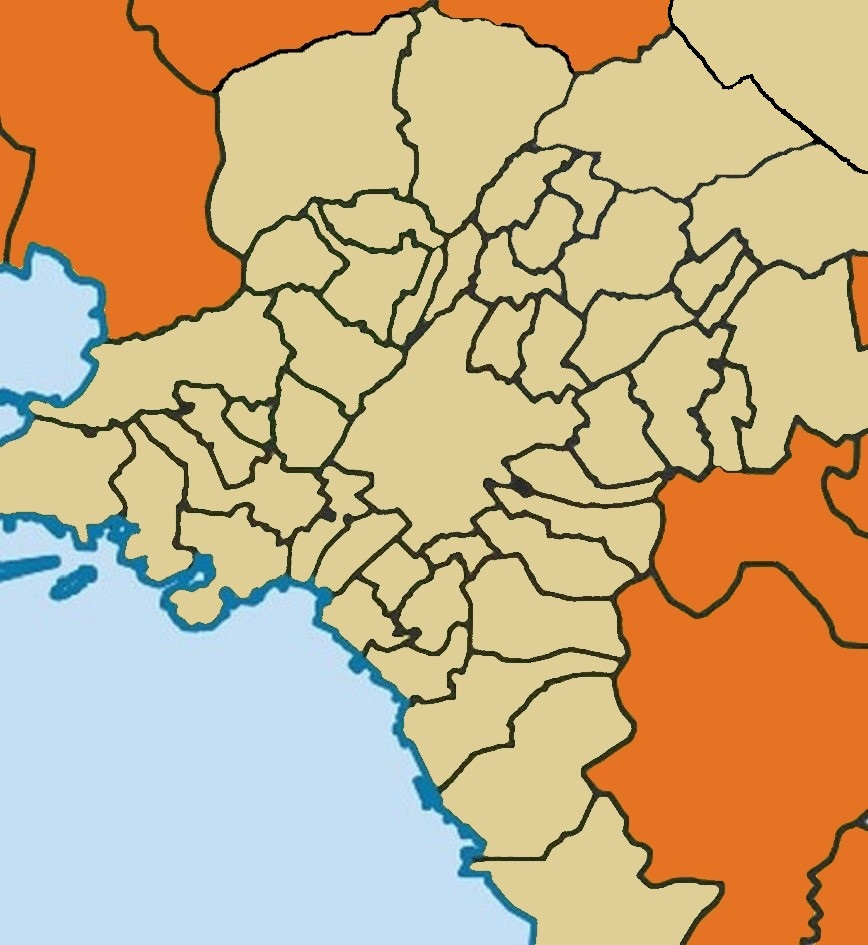
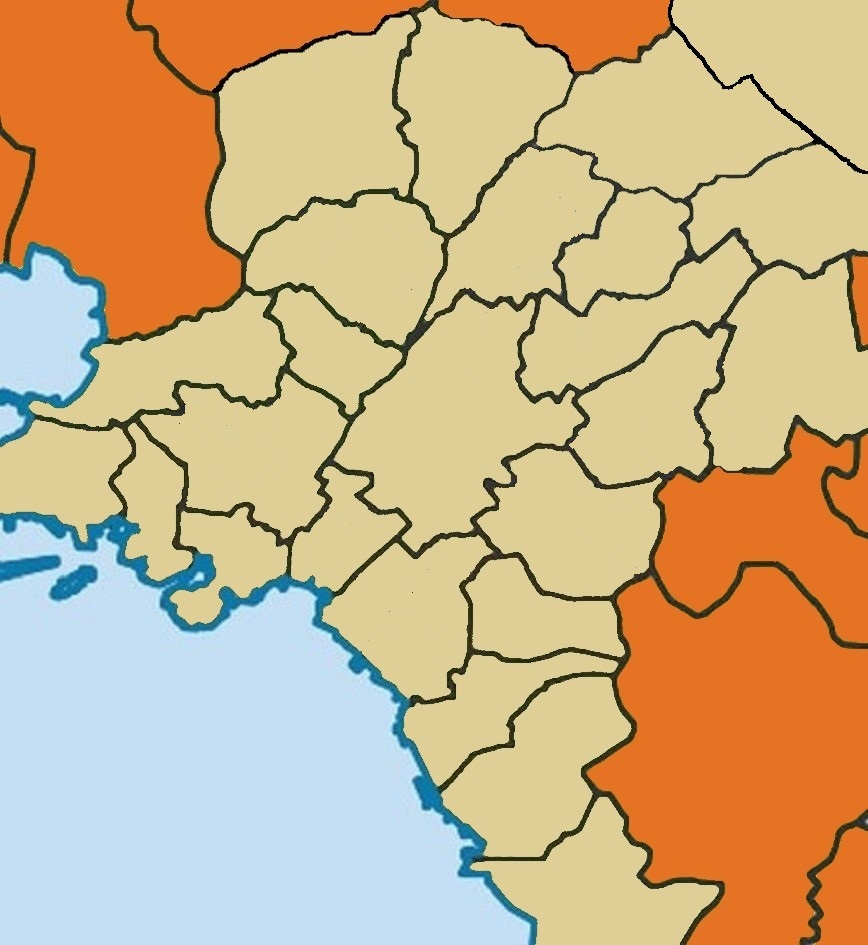
map done

diff --git a/src/GUI/RoutPlanningFrame.java b/src/GUI/RoutPlanningFrame.java
@@ -176,75 +176,315 @@ public class RoutPlanningFrame extends javax.swing.JFrame implements PropertyCha
 
         int[] x;
         int[] y;
+
+        //--ΒΑΡΗ-ΒΟΥΛΑ-ΒΟΥΛΙΑΓΜΕΝΗ
+        x = new int[]{534, 536, 536, 515, 491, 491, 489, 473, 469, 471, 474, 477, 484, 542, 549, 558, 563, 574, 579, 596, 608, 624, 626, 624, 634, 645, 650, 648, 639, 650, 660, 671, 694, 701, 719, 721, 709, 701, 683};
+        y = new int[]{945, 921, 919, 908, 881, 875, 872, 871, 869, 865, 862, 859, 857, 857, 846, 839, 834, 832, 829, 794, 794, 815, 822, 830, 843, 846, 855, 862, 875, 885, 885, 880, 879, 882, 882, 892, 906, 914, 945};
+
+        polys.add(new Polygon(x, y, x.length));
+
+        ArrayList<String> lot_0 = new ArrayList<>();
+        lot_0.add("ΒΑΡΗ");
+        lot_0.add("ΒΟΥΛΑ");
+        lot_0.add("ΒΟΥΛΙΑΓΜΕΝΗ");
+        lots.put(0, lot_0);
+
+        //--ΓΛΥΦΑΔΑ
+        x = new int[]{484, 482, 487, 468, 463, 443, 441, 437, 473, 498, 510, 511, 509, 513, 520, 531, 540, 543, 547, 554, 568, 588, 613, 615, 619, 626, 633, 632, 626, 585, 583, 596, 579, 574, 563, 558, 549, 542};
+        y = new int[]{857, 854, 843, 824, 824, 806, 798, 791, 753, 745, 744, 727, 722, 715, 710, 697, 689, 687, 682, 680, 675, 673, 674, 690, 705, 714, 724, 732, 740, 767, 774, 794, 829, 832, 834, 839, 846, 857};
+
+        polys.add(new Polygon(x, y, x.length));
+
+        ArrayList<String> lot_1 = new ArrayList<>();
+        lot_1.add("ΓΛΥΦΑΔΑ");
+
+        lots.put(1, lot_1);
+
+        //--ΕΛΛΗΝΙΚΟ, ΑΡΓΥΡΟΥΠΟΛΗ
+        x = new int[]{437, 418, 416, 410, 407, 402, 403, 403, 407, 412, 417, 422, 452, 452, 448, 448, 452, 459, 462, 470, 483, 495, 501, 521, 527, 543, 555, 565, 572, 587, 621, 613, 588, 568, 554, 547, 543, 540, 531, 520, 513, 509, 511, 510, 498, 473, 437};
+        y = new int[]{791, 751, 746, 739, 738, 729, 728, 718, 708, 700, 698, 701, 696, 686, 678, 674, 671, 670, 670, 651, 653, 653, 658, 659, 659, 656, 652, 649, 649, 651, 659, 674, 673, 675, 680, 682, 687, 689, 697, 710, 715, 722, 727, 744, 745, 753, 791};
+
+        polys.add(new Polygon(x, y, x.length));
+
+        ArrayList<String> lot_2 = new ArrayList<>();
+        lot_2.add("ΑΡΓΥΡΟΥΠΟΛΗ");
+        lot_2.add("ΕΛΛΗΝΙΚΟ");
+
+        lots.put(2, lot_2);
+
+        //--ΗΛΙΟΥΠΟΛΗ
+        x = new int[]{470, 470, 462, 463, 471, 483, 497, 517, 524, 526, 539, 547, 564, 574, 612, 618, 618, 624, 627, 621, 587, 572, 565, 555, 543, 527, 521, 501, 495, 483, 470};
+        y = new int[]{651, 604, 586, 582, 576, 560, 555, 554, 563, 568, 590, 592, 596, 598, 598, 613, 631, 641, 653, 659, 651, 649, 649, 652, 656, 659, 659, 658, 653, 653, 651};
+
+        polys.add(new Polygon(x, y, x.length));
+
+        ArrayList<String> lot_3 = new ArrayList<>();
+        lot_3.add("ΗΛΙΟΥΠΟΛΗ");
+
+        lots.put(3, lot_3);
+
+        //--ΑΓΙΟΣ ΔΗΜΗΤΡΙΟΣ, ΑΛΙΜΟΣ, ΔΑΦΝΗ, ΝΕΑ ΣΜΥΡΝΗ, ΠΑΛΑΙΟ ΦΑΛΗΡΟ
+        x = new int[]{412, 407, 398, 395, 383, 380, 373, 338, 337, 324, 321, 322, 322, 326, 329, 334, 339, 354, 396, 414, 423, 427, 435, 440, 447, 454, 463, 472, 477, 487, 490, 497, 483, 471, 463, 462, 470, 470, 462, 459, 452, 448, 448, 452, 452, 422, 417, 412};
+        y = new int[]{700, 700, 691, 685, 679, 673, 666, 634, 629, 622, 622, 617, 610, 606, 605, 594, 592, 575, 538, 555, 546, 544, 538, 536, 536, 534, 535, 533, 530, 538, 545, 555, 560, 576, 582, 586, 604, 651, 670, 670, 671, 674, 678, 686, 696, 701, 698, 700};
+
+        polys.add(new Polygon(x, y, x.length));
+
+        ArrayList<String> lot_4 = new ArrayList<>();
+        lot_4.add("ΑΓΙΟΣ ΔΗΜΗΤΡΙΟΣ");
+        lot_4.add("ΑΛΙΜΟΣ");
+        lot_4.add("ΔΑΦΝΗ");
+        lot_4.add("ΝΕΑ ΣΜΥΡΝΗ");
+        lot_4.add("ΠΑΛΑΙΟ ΦΑΛΗΡΟ");
+        lots.put(4, lot_4);
+
+        //--ΜΟΣΧΑΤΟ, ΚΑΛΛΙΘΕΑ, ΤΑΥΡΟΣ
+        x = new int[]{334, 339, 354, 396, 408, 397, 378, 358, 370, 370, 346, 328, 316, 323, 320, 328, 319, 306, 298, 289, 288, 287, 287, 292, 303, 312, 313, 314, 318, 323};
+        y = new int[]{594, 592, 575, 538, 524, 511, 511, 495, 484, 475, 472, 461, 474, 482, 490, 499, 513, 527, 528, 541, 557, 572, 572, 578, 582, 576, 578, 583, 588, 586};
+
+        polys.add(new Polygon(x, y, x.length));
+
+        ArrayList<String> lot_5 = new ArrayList<>();
+
+        lot_5.add("ΜΟΣΧΑΤΟ");
+        lot_5.add("ΚΑΛΛΙΘΕΑ");
+        lot_5.add("ΤΑΥΡΟΣ");
+
+        lots.put(5, lot_5);
+
+        //--ΠΕΙΑΡΑΙΑΣ
+        x = new int[]{183, 177, 177, 177, 175, 184, 193, 200, 210, 212, 212, 215, 215, 209, 205, 199, 193, 187, 179, 169, 169, 175, 176, 183, 190, 197, 205, 210, 219, 222, 223, 218, 220, 223, 227, 239, 246, 252, 257, 269, 275, 281, 287, 288, 289, 279, 276, 266, 258, 252, 249, 251, 250, 244, 238, 230, 223, 212, 205, 189, 183};
+        y = new int[]{504, 514, 527, 532, 543, 548, 549, 554, 554, 557, 563, 569, 576, 584, 587, 587, 591, 591, 590, 596, 600, 604, 613, 618, 625, 622, 623, 622, 613, 606, 603, 596, 589, 586, 586, 598, 598, 590, 588, 580, 580, 576, 572, 557, 541, 541, 532, 527, 523, 523, 517, 508, 505, 503, 504, 513, 513, 512, 511, 510, 504};
+
+        polys.add(new Polygon(x, y, x.length));
+
+        ArrayList<String> lot_6 = new ArrayList<>();
+        lot_6.add("ΠΕΙΑΡΑΙΑΣ");
+
+        lots.put(6, lot_6);
+
+        //--ΑΓΙΟΣ ΙΩΑΝΝΗΣ ΡΕΝΤΗΣ, NIKAIA, ΚΟΡΥΔΑΛΛΟΣ, ΑΓΙΑ ΒΑΡΒΑΡΑ
+        x = new int[]{328, 316, 323, 320, 328, 319, 306, 298, 289, 279, 276, 266, 258, 252, 249, 251, 250, 244, 238, 230, 223, 212, 205, 189, 183, 183, 185, 184, 173, 168, 163, 155, 149, 145, 135, 141, 155, 165, 177, 181, 175, 177, 183, 189, 197, 207, 218, 225, 230, 241, 247, 254, 257, 266, 270, 277, 277, 276, 280, 284, 304, 323, 342, 340, 350, 340, 328};
+        y = new int[]{461, 474, 482, 490, 499, 513, 527, 528, 541, 541, 532, 527, 523, 523, 517, 508, 505, 503, 504, 513, 513, 512, 511, 510, 504, 489, 484, 465, 458, 452, 447, 441, 437, 429, 416, 410, 412, 410, 412, 408, 393, 384, 382, 384, 384, 385, 385, 394, 399, 398, 403, 406, 401, 402, 399, 395, 386, 384, 371, 368, 384, 392, 405, 409, 418, 439, 461};
+
+        polys.add(new Polygon(x, y, x.length));
+
+        ArrayList<String> lot_7 = new ArrayList<>();
+        lot_7.add("ΑΓΙΑ ΒΑΡΒΑΡΑ");
+        lot_7.add("ΑΓΙΟΣ ΙΩΑΝΝΗΣ ΡΕΝΤΗΣ");
+        lot_7.add("ΚΟΡΥΔΑΛΛΟΣ");
+        lot_7.add("NIKAIA");
+        lots.put(7, lot_7);
+
+        //--ΚΕΡΑΤΣΙΝΙ, ΔΡΑΠΕΤΣΟΝΑ
+        x = new int[]{121, 135, 145, 149, 155, 163, 168, 173, 184, 185, 183, 183, 177, 177, 177, 175, 184, 193, 192, 192, 188, 162, 157, 151, 144, 147, 146, 146, 143, 132, 127, 124, 124, 125, 126, 129, 133, 138, 139, 137, 137, 129, 125, 124, 123, 115, 110, 113, 118, 119, 124, 131, 133, 132, 121};
+        y = new int[]{425, 416, 429, 437, 441, 447, 452, 458, 465, 484, 489, 504, 514, 527, 532, 543, 548, 549, 555, 561, 566, 580, 581, 579, 574, 566, 559, 557, 555, 559, 559, 556, 551, 546, 542, 536, 533, 533, 529, 528, 524, 523, 517, 507, 502, 489, 480, 475, 471, 467, 462, 455, 450, 442, 425};
+
+        polys.add(new Polygon(x, y, x.length));
+
+        ArrayList<String> lot_8 = new ArrayList<>();
+        lot_8.add("ΔΡΑΠΕΤΣΟΝΑ");
+        lot_8.add("ΚΕΡΑΤΣΙΝΙ");
+
+        lots.put(8, lot_8);
+
         //--ΠΕΡΑΜΑ
         x = new int[]{0, 4, 10, 16, 21, 26, 31, 34, 42, 54, 61, 67, 72, 79, 85, 90, 97, 106, 111, 121, 132, 133, 131, 124, 119, 118, 113, 110, 115, 123, 124, 119, 114, 109, 99, 87, 86, 87, 86, 80, 77, 74, 68, 63, 55, 42, 36, 17, 14, 12, 10, 4, 0};
         y = new int[]{447, 443, 440, 439, 436, 432, 424, 418, 418, 419, 423, 423, 425, 425, 429, 431, 427, 428, 421, 425, 442, 450, 455, 462, 467, 471, 475, 480, 489, 502, 507, 514, 515, 515, 523, 524, 528, 536, 542, 542, 532, 527, 524, 524, 516, 516, 512, 512, 513, 512, 513, 513, 513};
 
         polys.add(new Polygon(x, y, x.length));
 
-        ArrayList<String> lot_0 = new ArrayList<>();
-        lot_0.add("bubs");
-        lot_0.add("baba");
-        lot_0.add("bobo");
+        ArrayList<String> lot_9 = new ArrayList<>();
+        lot_9.add("ΠΕΡΑΜΑ");
 
-        lots.put(0, lot_0);
+        lots.put(9, lot_9);
 
-        //--ΚΕΡΑΤΣΙΝΙ
-        x = new int[]{121, 135, 145, 149, 155, 163, 168, 173, 184, 185, 183, 183, 177, 177, 177, 175, 184, 193, 192, 192, 188, 162, 157, 151, 144, 147, 146, 146, 143, 132, 127, 124, 124, 125, 126, 129, 133, 138, 139, 137, 137, 129, 125, 124, 123, 115, 110, 113, 118, 119, 124, 131, 133, 132, 121};
-        y = new int[]{425, 416, 429, 437, 441, 447, 452, 458, 465, 484, 489, 504, 514, 527, 532, 543, 548, 549, 555, 561, 566, 580, 581, 579, 574, 566, 559, 557, 555, 559, 559, 556, 551, 546, 542, 536, 533, 533, 529, 528, 524, 523, 517, 507, 502, 489, 480, 475, 471, 467, 462, 455, 450, 442, 425};
+        //--ΧΑΙΔΑΡΙ
+        x = new int[]{34, 42, 54, 61, 67, 72, 79, 85, 90, 97, 106, 111, 121, 135, 141, 155, 165, 177, 181, 175, 177, 183, 189, 197, 207, 218, 225, 230, 241, 247, 254, 257, 266, 270, 277, 277, 276, 280, 284, 287, 292, 282, 279, 265, 274, 265, 254, 243, 224, 211, 202, 197, 183, 175, 162, 143, 135, 129, 120, 118, 105, 92, 89, 98, 97, 95, 88, 80, 67, 59, 54, 47, 37, 32, 27};
+        y = new int[]{418, 418, 419, 423, 423, 425, 425, 429, 431, 427, 428, 421, 425, 416, 410, 412, 410, 412, 408, 393, 384, 382, 384, 384, 385, 385, 394, 399, 398, 403, 406, 401, 402, 399, 395, 386, 384, 371, 368, 360, 352, 341, 324, 314, 291, 291, 292, 286, 306, 308, 308, 317, 316, 323, 328, 336, 334, 337, 338, 341, 339, 348, 352, 362, 369, 373, 386, 396, 406, 408, 408, 403, 401, 401, 405};
 
         polys.add(new Polygon(x, y, x.length));
 
-        ArrayList<String> lot_1 = new ArrayList<>();
-        lot_1.add("bubs");
-        lot_1.add("baba");
-        lot_1.add("bobo");
+        ArrayList<String> lot_10 = new ArrayList<>();
+        lot_10.add("ΧΑΙΔΑΡΙ");
 
-        lots.put(1, lot_1);
+        lots.put(10, lot_10);
 
-        //--ΠΕΙΑΡΑΙΑΣ
-        x = new int[]{ 183, 177, 177, 177, 175, 184, 193,200,210,212,212,215,215,209,205,199,193,187,179,169,169,175,176,183,190,197,205,210,219,222,223,218,220,223,227,239,246,252,257,269,275,281,287,288,289,279,276,266,258,252,249,251,250,244,238,230,223,212,205,189,183};
-        y = new int[]{ 504, 514, 527, 532, 543, 548, 549,549,554,554,557,563,569,576,584,587,587,591,591,590,596,600,604,613,618,625,622,623,622,613,606,603,596,589,586,586,598,598,590,588,580,580,576,572,557,541,541,532,527,523,523,517,508,505,503,504,513,513,512,511,510,504};
+        //--ΠΕΡΙΣΤΕΡΙ
+        x = new int[]{350, 340, 342, 323, 304, 284, 287, 292, 282, 279, 265, 274, 288, 296, 301, 306, 310, 316, 337, 343, 348, 355, 361, 369, 376, 385, 404, 403, 388, 375, 362, 361, 350};
+        y = new int[]{418, 409, 405, 392, 384, 368, 360, 352, 341, 324, 314, 291, 284, 289, 285, 288, 287, 294, 317, 320, 322, 323, 327, 331, 340, 343, 348, 360, 376, 387, 394, 408, 418};
 
         polys.add(new Polygon(x, y, x.length));
 
-        ArrayList<String> lot_2 = new ArrayList<>();
-        lot_2.add("bubs");
-        lot_2.add("baba");
-        lot_2.add("bobo");
+        ArrayList<String> lot_11 = new ArrayList<>();
+        lot_11.add("ΠΕΡΙΣΤΕΡΙ");
 
-        lots.put(2, lot_2);
+        lots.put(11, lot_11);
 
+        //--ΑΓΙΟΙ ΑΝΑΡΓΙΡΟΙ, ΠΕΤΡΟΥΠΟΛΗ, ΙΛΙΟΝ, ΚΑΜΑΤΕΡΟ
+        x = new int[]{274, 265, 254, 243, 274, 288, 296, 301, 306, 310, 316, 337, 343, 348, 355, 361, 369, 376, 385, 404, 429, 431, 434, 443, 445, 442, 446, 432, 431, 425, 408, 396, 393, 362, 355, 351, 343, 338, 324, 313, 304, 296, 286, 275, 261, 244, 243};
+        y = new int[]{291, 291, 292, 286, 291, 284, 289, 285, 288, 287, 294, 317, 320, 322, 323, 327, 331, 340, 343, 348, 301, 297, 284, 269, 254, 246, 237, 228, 220, 207, 197, 197, 190, 190, 194, 202, 202, 200, 200, 198, 208, 217, 216, 224, 231, 257, 286};
+
+        polys.add(new Polygon(x, y, x.length));
+
+        ArrayList<String> lot_12 = new ArrayList<>();
+        lot_12.add("ΑΓΙΟΙ ΑΝΑΡΓΙΡΟΙ");
+        lot_12.add("ΠΕΤΡΟΥΠΟΛΗ");
+        lot_12.add("ΙΛΙΟΝ");
+        lot_12.add("ΚΑΜΑΤΕΡΟ");
+        lots.put(12, lot_12);
+
+        //--ΑΝΩ ΛΙΟΣΙΑ, ΖΕΦΥΡΙ, ΦΥΛΗ
+        x = new int[]{408, 396, 393, 362, 355, 351, 343, 338, 324, 313, 304, 296, 286, 275, 261, 244, 216, 209, 207, 222, 224, 218, 216, 223, 233, 242, 278, 300, 320, 337, 337, 347, 350, 369, 373, 385, 398, 412, 417, 416, 410, 408, 401, 394, 394, 398, 405, 406, 398, 403, 403, 414, 415, 411,};
+        y = new int[]{197, 197, 190, 190, 194, 202, 202, 200, 200, 198, 208, 217, 216, 224, 231, 257, 241, 229, 208, 163, 155, 133, 92, 78, 69, 67, 49, 48, 38, 34, 34, 31, 33, 34, 31, 16, 15, 11, 24, 31, 34, 49, 56, 85, 101, 107, 112, 118, 126, 134, 139, 145, 172, 182};
+
+        polys.add(new Polygon(x, y, x.length));
+
+        ArrayList<String> lot_13 = new ArrayList<>();
+
+        lot_13.add("ΑΝΩ ΛΙΟΣΙΑ");
+        lot_13.add("ΖΕΦΥΡΙ");
+        lot_13.add("ΦΥΛΗ");
+        lots.put(13, lot_13);
+
+        //--ΑΧΑΡΝΕΣ, ΘΡΑΚΟΜΑΚΕΔΟΝΕΣ
+        x = new int[]{412, 417, 416, 410, 408, 401, 394, 394, 398, 405, 406, 398, 403, 403, 414, 415, 411, 408, 425, 431, 432, 446, 454, 464, 476, 480, 485, 490, 508, 516, 524, 531, 536, 543, 564, 575, 565, 552, 535, 524, 517, 501, 494, 484, 449, 439, 433, 422};
+        y = new int[]{11, 24, 31, 34, 49, 56, 85, 101, 107, 112, 118, 126, 134, 139, 145, 172, 182, 197, 207, 220, 228, 237, 232, 223, 208, 193, 186, 183, 159, 153, 146, 142, 123, 114, 102, 72, 57, 45, 44, 33, 26, 23, 23, 18, 18, 12, 3, 8};
+
+        polys.add(new Polygon(x, y, x.length));
+
+        ArrayList<String> lot_14 = new ArrayList<>();
+
+        lot_14.add("ΑΧΑΡΝΕΣ");
+        lot_14.add("ΘΡΑΚΟΜΑΚΕΔΟΝΕΣ");
+
+        lots.put(14, lot_14);
+
+        //--ΝΕΑ ΧΑΛΚΗΔΟΝΑ, ΝΕΑ ΦΙΛΑΔΕΛΦΙΑ, ΜΕΤΑΜΟΡΦΩΣΗ, ΗΡΑΚΛΕΙΟ, ΛΥΚΟΒΡΥΣΗ, ΠΕΥΚΗ
+        x = new int[]{404, 429, 431, 434, 443, 445, 442, 446, 454, 464, 476, 480, 485, 490, 508, 516, 524, 531, 542, 552, 558, 579, 590, 594, 590, 597, 609, 617, 611, 600, 594, 583, 575, 564, 561, 554, 562, 563, 545, 536, 530, 518, 509, 500, 489, 475, 466, 453, 449, 435};
+        y = new int[]{348, 301, 297, 284, 269, 254, 246, 237, 232, 223, 208, 193, 186, 183, 159, 153, 146, 142, 148, 147, 144, 151, 152, 158, 171, 177, 180, 187, 201, 215, 234, 234, 239, 244, 253, 262, 275, 299, 289, 296, 295, 306, 299, 298, 304, 298, 290, 300, 308, 315};
+
+        polys.add(new Polygon(x, y, x.length));
+
+        ArrayList<String> lot_15 = new ArrayList<>();
+
+        lot_15.add("ΝΕΑ ΧΑΛΚΗΔΟΝΑ");
+        lot_15.add("ΝΕΑ ΦΙΛΑΔΕΛΦΙΑ");
+        lot_15.add("ΜΕΤΑΜΟΡΦΩΣΗ");
+        lot_15.add("ΗΡΑΚΛΕΙΟ");
+        lot_15.add("ΛΥΚΟΒΡΥΣΗ");
+        lot_15.add("ΠΕΥΚΗ");
+        lots.put(15, lot_15);
+
+        //--ΜΑΡΟΥΣΙ
+        x = new int[]{617, 611, 600, 594, 583, 575, 564, 561, 554, 562, 563, 579, 584, 600, 618, 623, 632, 646, 654, 664, 671, 676, 689, 687, 680, 689, 689, 686, 675, 654, 648, 633};
+        y = new int[]{187, 201, 215, 234, 234, 239, 244, 253, 262, 275, 299, 313, 312, 292, 295, 294, 296, 296, 294, 288, 280, 265, 256, 233, 226, 216, 205, 200, 199, 187, 187, 190};
+
+        polys.add(new Polygon(x, y, x.length));
+
+        ArrayList<String> lot_16 = new ArrayList<>();
+
+        lot_16.add("ΜΑΡΟΥΣΙ");
+        lots.put(16, lot_16);
         //-----
 
-        /*
-        x = new int[]{671, 668, 673, 686, 696, 700, 708, 710, 712, 717, 724, 742, 750, 760, 792, 819, 824, 841, 849, 859, 869};
-          y = new int[]{0, 12, 25, 42, 53, 58, 68, 73, 76, 79, 80, 68, 75, 90, 115, 137, 145, 153, 163, 165, 0};
+        //--ΚΗΦΙΣΙΑ, ΝΕΑ ΕΡΥΘΡΑΙΑ, ΠΟΛΙΤΕΙΑ
+        x = new int[]{575, 564, 543, 536, 531, 542, 552, 558, 579, 590, 594, 590, 597, 609, 617, 633, 648, 654, 675, 686, 695, 700, 710, 716, 746, 763, 791, 817, 776, 753, 751, 741, 729, 723, 701, 685, 673, 667, 657, 649, 640, 637, 623, 614, 591, 575};
+        y = new int[]{72, 102, 114, 123, 142, 148, 147, 144, 151, 152, 158, 171, 177, 180, 187, 190, 187, 187, 199, 200, 192, 184, 184, 176, 175, 160, 148, 138, 107, 82, 75, 77, 86, 86, 57, 40, 27, 34, 35, 45, 48, 60, 59, 57, 70, 72};
+
         polys.add(new Polygon(x, y, x.length));
 
-        ArrayList<String> lot_0 = new ArrayList<>();
-        lot_0.add("ΑΓΙΟΣ ΣΤΕΦΑΝΟΣ");
-        lot_0.add("ΑΝΟΙΞΙΗ");
-        lot_0.add("ΔΙΟΝΥΣΟΣ");
-        lot_0.add("ΔΡΟΣΙΑ");
-        lot_0.add("ΚΡΥΟΝΕΡΙ");
-        lot_0.add("ΡΟΔΟΠΟΛΗ");
-        lot_0.add("ΣΤΑΜΑΤΑ");
-        lots.put(0, lot_0);
-//-----------------
-        x = new int[]{536, 537, 544, 565, 577, 593, 614, 638, 644, 648, 659, 667, 672, 685, 695, 699, 707, 709, 711, 716, 724};
-        y = new int[]{145, 125, 115, 103, 73, 71, 60, 59, 50, 47, 36, 36, 29, 42, 53, 58, 68, 73, 76, 79, 87};
+        ArrayList<String> lot_17 = new ArrayList<>();
 
-        System.out.println(x.length + " " + y.length);
+        lot_17.add("ΚΗΦΙΣΙΑ");
+        lot_17.add("ΝΕΑ ΕΡΥΘΡΑΙΑ");
+        lot_17.add("ΠΟΛΙΤΕΙΑ");
+        lots.put(17, lot_17);
+
+        //-----ΑΓΙΟΣ ΣΤΕΦΑΝΟΣ ΑΝΟΙΞΙΗ ΔΙΟΝΥΣΟΣ ΔΡΟΣΙΑ ΡΟΔΟΠΟΛΗ ΣΤΑΜΑΤΑ
+        x = new int[]{868, 857, 817, 776, 753, 751, 741, 729, 723, 701, 685, 673, 669, 671, 868};
+        y = new int[]{171, 168, 138, 107, 82, 75, 77, 86, 86, 57, 40, 27, 11, 0, 0};
         polys.add(new Polygon(x, y, x.length));
 
-        ArrayList<String> lot_1 = new ArrayList<>();
-        lot_1.add("ΕΚΑΛΗ");
-        lot_1.add("ΠΟΛΙΤΕΙΑ");
-        lot_1.add("ΚΗΦΙΣΙΑ");
+        ArrayList<String> lot_18 = new ArrayList<>();
+        lot_18.add("ΑΓΙΟΣ ΣΤΕΦΑΝΟΣ");
+        lot_18.add("ΑΝΟΙΞΙΗ");
+        lot_18.add("ΔΙΟΝΥΣΟΣ");
+        lot_18.add("ΔΡΟΣΙΑ");
+        lot_18.add("ΚΡΥΟΝΕΡΙ");
+        lot_18.add("ΡΟΔΟΠΟΛΗ");
+        lot_18.add("ΣΤΑΜΑΤΑ");
+        lots.put(18, lot_18);
 
-        lots.put(1, lot_1);
-         */
+        //--ΠΕΝΤΕΛΗ
+        x = new int[]{868, 863, 854, 846, 826, 822, 813, 804, 797, 780, 761, 736, 700, 689, 687, 680, 689, 689, 686, 695, 700, 710, 716, 746, 763, 791, 817, 857, 868};
+        y = new int[]{253, 253, 251, 254, 261, 270, 275, 275, 269, 262, 267, 229, 259, 256, 233, 226, 216, 205, 200, 192, 184, 184, 176, 175, 160, 148, 138, 168, 171};
+
+        polys.add(new Polygon(x, y, x.length));
+
+        ArrayList<String> lot_19 = new ArrayList<>();
+
+        lot_19.add("ΠΕΝΤΕΛΗ");
+
+        lots.put(19, lot_19);
+
+        //-----ΑΝΘΟΥΣΑ, ΓΕΡΑΚΑΣ, ΓΛΥΚΑ ΝΕΡΑ, ΠΑΛΛΗΝΗ
+        x = new int[]{868, 859, 848, 851, 846, 826, 822, 813, 804, 797, 780, 761, 749, 738, 722, 730, 718, 721, 721, 715, 705, 697, 697, 707, 705, 710, 710, 715, 720, 724, 739, 772, 787, 786, 796, 806, 817, 835, 843, 856, 868};
+        y = new int[]{345, 348, 283, 277, 254, 261, 270, 275, 275, 269, 262, 267, 279, 293, 321, 328, 366, 375, 380, 389, 391, 406, 414, 432, 441, 449, 464, 467, 466, 470, 470, 470, 454, 448, 418, 427, 432, 444, 436, 437, 429};
+        polys.add(new Polygon(x, y, x.length));
+
+        ArrayList<String> lot_20 = new ArrayList<>();
+        lot_20.add("ΑΝΘΟΥΣΑ");
+        lot_20.add("ΓΕΡΑΚΑΣ");
+        lot_20.add("ΓΛΥΚΑ ΝΕΡΑ");
+        lot_20.add("ΠΑΛΛΗΝΗ");
+
+        lots.put(20, lot_20);
+
+        //-----ΧΑΛΑΝΔΡΙ, ΨΥΧΙΚΟ, ΒΡΙΛΗΣΣΙΑ
+        x = new int[]{536, 545, 563, 579, 584, 600, 618, 623, 632, 646, 654, 664, 671, 676, 689, 700, 736, 761, 749, 738, 722, 709, 692, 681, 660, 642, 629, 578, 568, 557, 549, 532, 519, 517, 522, 519, 519, 526, 531, 532, 536};
+        y = new int[]{296, 289, 299, 313, 312, 292, 295, 294, 296, 296, 294, 288, 280, 265, 256, 259, 229, 267, 279, 293, 321, 334, 321, 326, 333, 357, 367, 392, 384, 399, 392, 399, 383, 375, 365, 355, 342, 333, 328, 323, 296};
+        polys.add(new Polygon(x, y, x.length));
+
+        ArrayList<String> lot_21 = new ArrayList<>();
+        lot_21.add("ΧΑΛΑΝΔΡΙ");
+        lot_21.add("ΨΥΧΙΚΟ");
+        lot_21.add("ΒΡΙΛΗΣΣΙΑ ΝΕΡΑ");
+
+        lots.put(21, lot_21);
+
+        //-----ΑΓΙΑ ΠΑΡΑΣΚΕΥΗ, ΠΑΠΑΓΟΣ
+        x = new int[]{722, 730, 718, 721, 721, 715, 705, 697, 697, 707, 705, 710, 710, 699, 678, 665, 658, 650, 614, 597, 566, 568, 572, 576, 587, 574, 578, 629, 642, 660, 681, 692, 709, 722};
+        y = new int[]{321, 328, 366, 375, 380, 389, 391, 406, 414, 432, 441, 449, 464, 477, 468, 476, 474, 478, 486, 483, 446, 440, 437, 429, 419, 399, 392, 367, 357, 333, 326, 321, 334, 321};
+        polys.add(new Polygon(x, y, x.length));
+
+        ArrayList<String> lot_22 = new ArrayList<>();
+        lot_22.add("ΑΓΙΑ ΠΑΡΑΣΚΕΥΗ");
+        lot_22.add("ΠΑΠΑΓΟΣ");
+
+        lots.put(22, lot_22);
+
+        //-----ΒΥΡΩΝΑΣ, ΚΑΙΣΑΡΙΑΝΗ, ΖΩΓΡΑΦΟΥ
+        x = new int[]{612, 617, 631, 651, 651, 659, 662, 663, 655, 655, 665, 658, 650, 614, 597, 566, 537, 506, 504, 513, 511, 502, 490, 497, 496, 487, 474, 477, 487, 490, 497, 517, 524, 526, 539, 547, 564, 574, 612};
+        y = new int[]{598, 591, 578, 570, 555, 539, 521, 507, 497, 493, 476, 474, 478, 486, 483, 446, 443, 458, 461, 476, 481, 484, 481, 499, 505, 507, 518, 530, 538, 545, 555, 554, 563, 568, 590, 592, 596, 598, 598};
+        polys.add(new Polygon(x, y, x.length));
+
+        ArrayList<String> lot_23 = new ArrayList<>();
+        lot_23.add("ΒΥΡΩΝΑΣ");
+        lot_23.add("ΚΑΙΣΑΡΙΑΝΗ");
+        lot_23.add("ΖΩΓΡΑΦΟΥ");
+        lots.put(23, lot_23);
+
+        //-----ΑΘΗΝΑ,ΓΑΛΑΤΣΙ
+        x = new int[]{566, 537, 506, 504, 513, 511, 502, 490, 497, 496, 487, 474, 477, 472, 463, 454, 447, 440, 435, 427, 423, 414, 396, 408, 397, 378, 358, 370, 370, 346, 328, 340, 350, 361, 362, 375, 388, 403, 404, 435, 449, 453, 466, 475, 489, 500, 509, 518, 530, 536, 532, 531, 526, 519, 519, 522, 517, 519, 532, 549, 557, 568, 578, 574, 587, 576, 572, 568, 566};
+        y = new int[]{446, 443, 458, 461, 476, 481, 484, 481, 499, 505, 507, 518, 530, 533, 535, 534, 536, 536, 538, 544, 546, 555, 538, 524, 511, 511, 495, 484, 475, 472, 461, 439, 418, 408, 394, 387, 376, 360, 348, 315, 308, 300, 290, 298, 304, 298, 299, 306, 295, 296, 323, 328, 333, 342, 355, 365, 375, 383, 399, 392, 399, 384, 392, 399, 419, 429, 437, 440, 446};
+        polys.add(new Polygon(x, y, x.length));
+
+        ArrayList<String> lot_24 = new ArrayList<>();
+        lot_24.add("ΑΘΗΝΑ");
+        lot_24.add("ΓΑΛΑΤΣΙ");
+        lot_24.add("ΖΩΓΡΑΦΟΥ");
+        lots.put(24, lot_24);
+
 //----------
 //----------
         imagePanel.setPolygons(polys);
